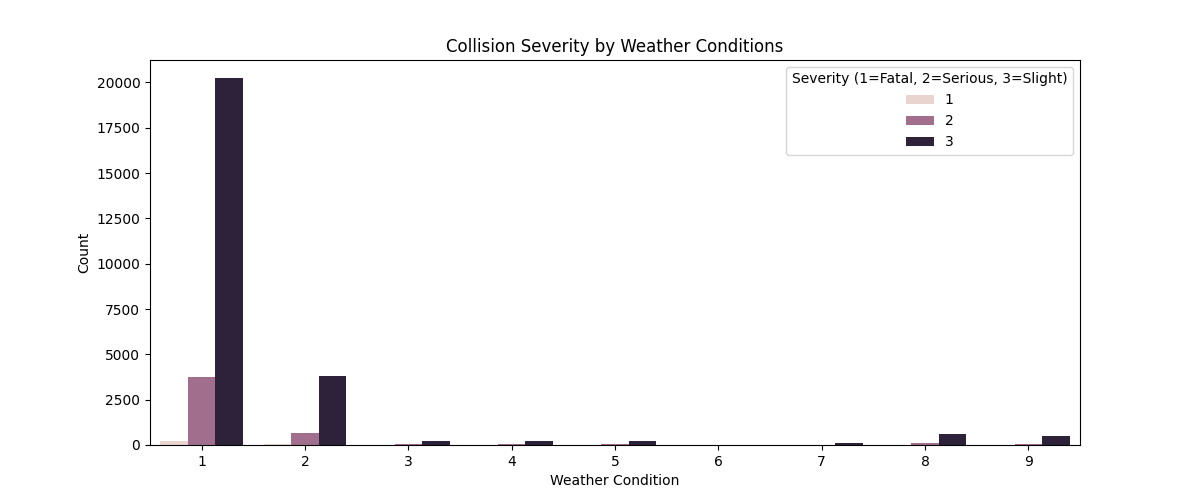
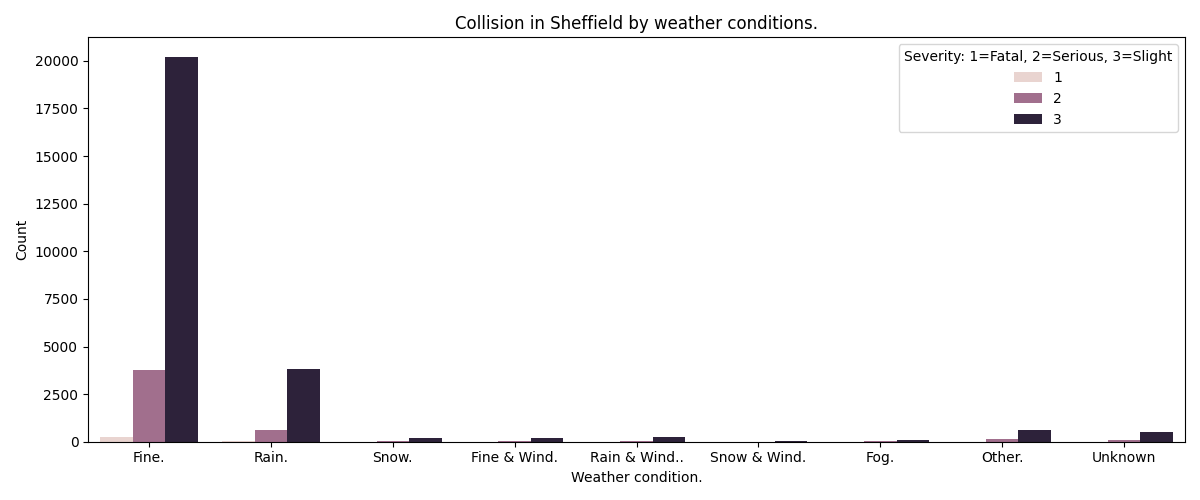
Add files via upload

diff --git a/ReadMe/ReadMe.md b/ReadMe/ReadMe.md
@@ -1,8 +1,3 @@
-
-# Project Title
-
-A brief description of what this project does and who it's for
-
 # C4009143 ARTIFICIAL INTELLIGENCE AND MACHINE LEARNING 1
 
 ## 1. Overview
@@ -173,7 +168,7 @@ All constants are defined in Config.py. Key settings:
  
 Sheffield collisions show a clear downward trend from approximately 1,900 per year in 1998 to under 800 by 2021. This long-term decline is captured by the Simple Linear Regression model (R2 = 0.93).
  
-![Collisions by Year](readme_images/eda_year.png)
+![Collisions by Year](ReadMe/Figure_3.png)
  
 ---
  
@@ -181,7 +176,7 @@ Sheffield collisions show a clear downward trend from approximately 1,900 per ye
  
 Two distinct peaks are visible — a morning rush hour peak around 8am and a larger afternoon peak between 15:00 and 17:00. This pattern directly motivated the `is_rush_hour` engineered feature.
  
-![Collisions by Hour](readme_images/eda_hour.png)
+![Collisions by Hour](ReadMe/Figure_4.png)
  
 ---
  
@@ -189,7 +184,7 @@ Two distinct peaks are visible — a morning rush hour peak around 8am and a lar
  
 Collisions are slightly higher in autumn and winter months (October to January) and lowest in August. November is the most dangerous month, likely due to darker evenings and worsening road conditions.
  
-![Collisions by Month](readme_images/eda_month.png)
+![Collisions by Month](ReadMe/Figure_5.png)
  
 ---
  
@@ -197,7 +192,7 @@ Collisions are slightly higher in autumn and winter months (October to January) 
  
 The majority of collisions occur in fine weather (code 1) simply because that is when most driving takes place. Rain (code 2) is the second most common condition. All weather codes with bad conditions (2, 3, 5, 6, 7) are grouped into the `is_bad_weather` engineered feature.
  
-![Severity by Weather](readme_images/eda_weather_filtered.png)
+![Severity by Weather](ReadMe/Figure_6.png)
  
 ---
  
@@ -205,7 +200,7 @@ The majority of collisions occur in fine weather (code 1) simply because that is
  
 Most collisions occur in daylight (code 1). Dark with street lighting (code 4) is the second highest, reflecting Sheffield's urban road network. Codes 5, 6 and 7 represent increasingly dark conditions with minimal lighting and appear mainly on rural outskirts.
  
-![Severity by Light](readme_images/eda_light.png)
+![Severity by Light](ReadMe/Figure_7.png)
  
 ---
  
@@ -213,7 +208,7 @@ Most collisions occur in daylight (code 1). Dark with street lighting (code 4) i
  
 All 30,932 collisions plotted by GPS coordinates and coloured by severity. Sheffield's road network is clearly visible — the dense city centre hotspot and major arterial routes radiating outward. Fatal collisions (red) are sparse and scattered, Serious (orange) follow main roads, Slight (blue) dominate everywhere.
  
-![Collision Location Map](readme_images/eda_location.png)
+![Collision Location Map](ReadMe/Figure_8.png)
  
 ---
 ## 8. Example Output
@@ -222,7 +217,7 @@ All 30,932 collisions plotted by GPS coordinates and coloured by severity. Sheff
  
 The multiclass Decision Tree uses class_weight=balanced to compensate for the severe class imbalance. The model correctly identifies 31 Fatal and 455 Serious collisions but over-predicts Fatal due to the balancing.
  
-![Confusion Matrix Multiclass](readme_images/cm_multiclass.png)
+![Confusion Matrix Multiclass](ReadMe/Figure_31.png)
  
 ---
  
@@ -230,7 +225,7 @@ The multiclass Decision Tree uses class_weight=balanced to compensate for the se
  
 With class_weight=balanced applied, did_police_officer_attend_scene_of_accident and speed_limit are the most important features, making intuitive sense as police attend more serious incidents and higher speeds correlate with severity.
  
-![Feature Importance Balanced](readme_images/feature_importance_balanced.png)
+![Feature Importance Balanced](ReadMe/Figure_34.png)
  
 ---
  
@@ -238,15 +233,14 @@ With class_weight=balanced applied, did_police_officer_attend_scene_of_accident 
  
 Without class balancing, did_police_officer_attend_scene_of_accident (48%) and number_of_vehicles (41%) dominate but the model only predicts Slight for everything.
  
-![Feature Importance Unbalanced](readme_images/feature_importance_unbalanced.png)
- 
+![Feature Importance Unbalanced](ReadMe/Figure_14.png)
 ---
  
 ### Classification - Decision Tree Binary Confusion Matrix
  
 Binary classification of Urban vs Rural achieves 94.4% accuracy. The model correctly identifies 5,663 urban collisions but struggles with rural (only 176 of 498 correct) due to class imbalance.
  
-![Confusion Matrix Binary](readme_images/cm_binary_2.png)
+![Confusion Matrix Binary](ReadMe/Figure_32.png)
  
 ---
  
@@ -254,7 +248,7 @@ Binary classification of Urban vs Rural achieves 94.4% accuracy. The model corre
  
 Categorical classification of junction type achieves 78% accuracy. Category 0 (not at junction) performs well at 98% but minority junction types score poorly.
  
-![Confusion Matrix Categorical](readme_images/cm_categorical_2.png)
+![Confusion Matrix Categorical](ReadMe/Figure_33.png)
  
 ---
  
@@ -262,7 +256,7 @@ Categorical classification of junction type achieves 78% accuracy. Category 0 (n
  
 Simple Linear Regression on annual collision counts achieves R2 = 0.93. Sheffield sees a clear downward trend of approximately 55 fewer collisions per year driven by road safety improvements.
  
-![Simple Linear Regression](readme_images/simple_linear.png)
+![Simple Linear Regression](ReadMe/Figure_35.png)
  
 ---
  
@@ -270,7 +264,7 @@ Simple Linear Regression on annual collision counts achieves R2 = 0.93. Sheffiel
  
 Predicting number of casualties from 22 road and environmental features. Low R2 (0.07) is expected - the vast majority of collisions result in exactly one casualty regardless of conditions.
  
-![Multiple Linear Regression](readme_images/multiple_linear.png)
+![Multiple Linear Regression](ReadMe/Figure_36.png)
  
 ---
  
@@ -278,7 +272,7 @@ Predicting number of casualties from 22 road and environmental features. Low R2 
  
 Polynomial regression (degree=2 selected as best) for predicting number of vehicles involved. Low R2 (0.04) shows that environmental features alone cannot reliably predict vehicle counts.
  
-![Polynomial Regression](readme_images/polynomial.png)
+![Polynomial Regression](ReadMe/Figure_37.png)
  
 ---
  
@@ -286,7 +280,7 @@ Polynomial regression (degree=2 selected as best) for predicting number of vehic
  
 The elbow method shows no sharp bend, indicating collisions do not form strongly separated natural groups. This is typical for real-world road collision data.
  
-![Elbow Method](readme_images/elbow.png)
+![Elbow Method](ReadMe/Figure_38.png)
  
 ---
  
@@ -294,7 +288,7 @@ The elbow method shows no sharp bend, indicating collisions do not form strongly
  
 Silhouette scores across k=2 to k=10 confirm k=2 as the optimal number of clusters (score = 0.40).
  
-![Silhouette Score](readme_images/silhouette.png)
+![Silhouette Score](ReadMe/Figure_39.png)
  
 ---
  
@@ -302,7 +296,7 @@ Silhouette scores across k=2 to k=10 confirm k=2 as the optimal number of cluste
  
 K-Means clusters (k=2) projected onto 2D via PCA. Cluster 0 represents lower speed urban collisions (~31mph average), Cluster 1 represents higher speed rural collisions (~50mph average).
  
-![K-Means PCA](readme_images/kmeans_pca.png)
+![K-Means PCA](ReadMe/Figure_40.png)
  
 ---
  
@@ -310,7 +304,7 @@ K-Means clusters (k=2) projected onto 2D via PCA. Cluster 0 represents lower spe
  
 Five geographic zones identified across Sheffield using K-Means on latitude and longitude. The red cluster in the centre shows the dense city centre hotspot.
  
-![Geographic Clusters](readme_images/geographic_clusters.png)
+![Geographic Clusters](ReadMe/Figure_41.png)
  
 ---
  
@@ -318,7 +312,7 @@ Five geographic zones identified across Sheffield using K-Means on latitude and 
  
 DBSCAN over-clusters this dataset (317+ clusters) due to many collisions sharing identical encoded condition values. Documented as a known limitation.
  
-![DBSCAN Clusters](readme_images/dbscan.png)
+![DBSCAN Clusters](ReadMe/Figure_42.png)
  
 ---
  
@@ -326,7 +320,7 @@ DBSCAN over-clusters this dataset (317+ clusters) due to many collisions sharing
  
 17 of 20 components are needed to retain 95% of variance, showing that the classification features are relatively uncorrelated with each other. Decision Tree accuracy improves slightly with PCA applied (84.1% vs 83.4%).
  
-![PCA Variance](readme_images/pca_variance.png)
+![PCA Variance](ReadMe/Figure_43.png)
  
 ---
  
@@ -334,7 +328,7 @@ DBSCAN over-clusters this dataset (317+ clusters) due to many collisions sharing
  
 Model accuracy comparison against the 80% target. Most models exceed the target. Decision Tree categorical (78%) falls slightly below due to minority class difficulty.
  
-![Classification Accuracy](readme_images/classification_accuracy.png)
+![Classification Accuracy](ReadMe/Figure_46.png)
  
 ---
  
@@ -342,7 +336,7 @@ Model accuracy comparison against the 80% target. Most models exceed the target.
  
 Simple Linear Regression achieves R2 = 0.93. Multiple Linear and Polynomial score low as casualties and vehicles are difficult to predict from road conditions alone.
  
-![Regression R2](readme_images/regression_r2.png)
+![Regression R2](ReadMe/Figure_47.png)
  
 ---
  
@@ -350,7 +344,7 @@ Simple Linear Regression achieves R2 = 0.93. Multiple Linear and Polynomial scor
  
 Both K-Means models score below the 0.5 threshold, reflecting the naturally overlapping nature of road collision condition groups.
  
-![Clustering Silhouette](readme_images/clustering_silhouette.png)
+![Clustering Silhouette](ReadMe/Figure_48.png)
  
 ---
  
@@ -358,7 +352,7 @@ Both K-Means models score below the 0.5 threshold, reflecting the naturally over
  
 The severe imbalance between Slight (83.7%), Serious (15.4%) and Fatal (0.9%) collisions directly impacts model performance on minority classes and is a key ethical consideration.
  
-![Class Distribution](readme_images/class_distribution.png)
+![Class Distribution](ReadMe/Figure_44.png)
  
 ---
  